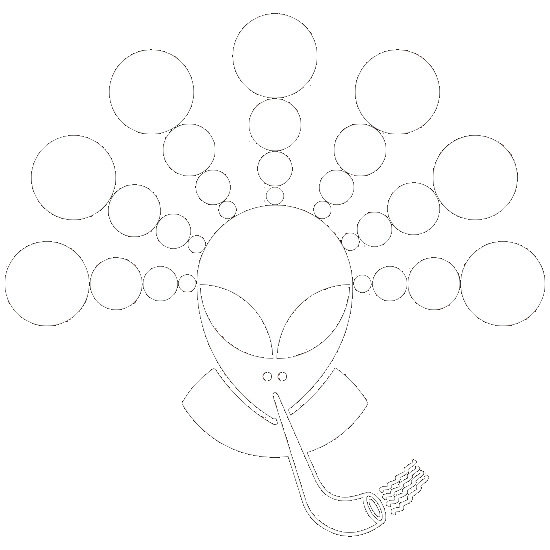
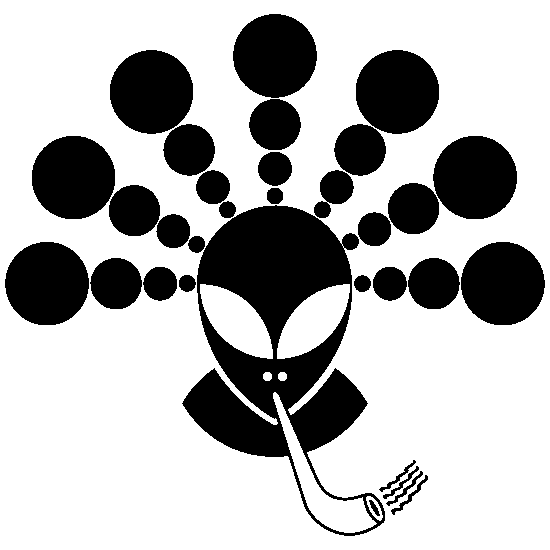
feat: seo and mobile

diff --git a/js/main.js b/js/main.js
@@ -1,0 +1,62 @@
+(function () {
+  var yearEl = document.getElementById("year");
+  if (yearEl) yearEl.textContent = String(new Date().getFullYear());
+
+  var toggle = document.querySelector(".nav-toggle");
+  var nav = document.querySelector(".nav");
+  var body = document.body;
+
+  var closeMenu = function () {
+    if (!nav || !toggle) return;
+    nav.classList.remove("is-open");
+    body.classList.remove("nav-open");
+    toggle.setAttribute("aria-expanded", "false");
+    toggle.setAttribute("aria-label", "Apri menu");
+  };
+
+  if (toggle && nav) {
+    toggle.addEventListener("click", function () {
+      var open = nav.classList.toggle("is-open");
+      body.classList.toggle("nav-open", open);
+      toggle.setAttribute("aria-expanded", open ? "true" : "false");
+      toggle.setAttribute("aria-label", open ? "Chiudi menu" : "Apri menu");
+    });
+
+    nav.querySelectorAll("a").forEach(function (link) {
+      link.addEventListener("click", closeMenu);
+    });
+
+    window.addEventListener("keydown", function (event) {
+      if (event.key === "Escape" && nav.classList.contains("is-open")) {
+        closeMenu();
+      }
+    });
+  }
+
+  document.querySelectorAll('a.brand[href="#top"], a.nav__logo[href="#top"]').forEach(function (link) {
+    link.addEventListener("click", function (e) {
+      e.preventDefault();
+      window.scrollTo({ top: 0, left: 0, behavior: "smooth" });
+      if (window.history && window.history.replaceState) {
+        var path = window.location.pathname + window.location.search;
+        window.history.replaceState(null, "", path);
+      }
+      closeMenu();
+    });
+  });
+
+  document.querySelectorAll(".faq__question").forEach(function (btn) {
+    btn.addEventListener("click", function () {
+      var item = btn.closest(".faq__item");
+      var panel = item && item.querySelector(".faq__answer");
+      if (!item || !panel) return;
+      var open = item.classList.toggle("faq__item--open");
+      btn.setAttribute("aria-expanded", open ? "true" : "false");
+      panel.hidden = !open;
+    });
+  });
+
+  document.querySelectorAll(".gallery__item img").forEach(function (img) {
+    img.setAttribute("draggable", "false");
+  });
+})();

diff --git a/index.html b/index.html
@@ -18,22 +18,25 @@
     <meta name="author" content="Sabia Antincendio di Sabia Hantony" />
     <meta name="robots" content="index, follow, max-image-preview:large, max-snippet:-1, max-video-preview:-1" />
     <title>Sabia Antincendio | Antincendio e estintori a Potenza e provincia (PZ)</title>
-    <link rel="sitemap" type="application/xml" title="Sitemap" href="sitemap.xml" />
+    <link rel="canonical" href="https://sabiaantincendio.it/" />
+    <link rel="sitemap" type="application/xml" title="Sitemap" href="https://sabiaantincendio.it/sitemap.xml" />
     <meta property="og:type" content="website" />
     <meta property="og:locale" content="it_IT" />
+    <meta property="og:url" content="https://sabiaantincendio.it/" />
     <meta property="og:title" content="Sabia Antincendio | Antincendio a Potenza e provincia (PZ)" />
     <meta
       property="og:description"
       content="Manutenzione, riparazione e ricarica estintori a Potenza e in tutta la provincia di Potenza. Servizi antincendio professionali."
     />
     <meta property="og:site_name" content="Sabia Antincendio" />
-    <meta property="og:image" content="assets/logo.png" />
+    <meta property="og:image" content="https://sabiaantincendio.it/assets/logo.png" />
     <meta name="twitter:card" content="summary_large_image" />
     <meta name="twitter:title" content="Sabia Antincendio | Antincendio a Potenza e provincia" />
     <meta
       name="twitter:description"
       content="Estintori e antincendio a Potenza (PZ) e provincia: manutenzione, riparazione e ricarica."
     />
+    <meta name="twitter:image" content="https://sabiaantincendio.it/assets/logo.png" />
     <meta name="theme-color" content="#ffffff" />
     <link rel="icon" type="image/png" href="assets/favicon.png" />
     <link rel="apple-touch-icon" href="assets/favicon.png" />
@@ -48,11 +51,25 @@
     <script type="application/ld+json">
       {
         "@context": "https://schema.org",
+        "@type": "WebSite",
+        "@id": "https://sabiaantincendio.it/#website",
+        "url": "https://sabiaantincendio.it/",
+        "name": "Sabia Antincendio",
+        "description": "Servizi antincendio a Potenza e provincia di Potenza: estintori, manutenzione, riparazione e ricarica.",
+        "inLanguage": "it-IT",
+        "publisher": { "@id": "https://sabiaantincendio.it/#business" }
+      }
+    </script>
+    <script type="application/ld+json">
+      {
+        "@context": "https://schema.org",
         "@type": "LocalBusiness",
+        "@id": "https://sabiaantincendio.it/#business",
         "name": "Sabia Antincendio di Sabia Hantony",
         "alternateName": "Sabia Antincendio",
+        "url": "https://sabiaantincendio.it/",
         "description": "Azienda antincendio a Potenza: manutenzione, riparazione e ricarica estintori in città e in tutta la provincia di Potenza (PZ). Prevenzione incendi per privati, condomini e imprese.",
-        "image": "assets/logo.png",
+        "image": "https://sabiaantincendio.it/assets/logo.png",
         "telephone": "[phone redacted]",
         "email": "[email redacted]",
         "address": {
@@ -82,6 +99,7 @@
         ],
         "vatID": "IT01910310760",
         "sameAs": [
+          "https://sabiaantincendio.it/",
           "https://www.facebook.com/p/Sabia-antincendio-100072300320098/"
         ],
         "hasOfferCatalog": {
@@ -126,7 +144,7 @@
         </a>
         <nav class="nav" aria-label="Principale">
           <a class="nav__logo" href="#top" aria-label="Sabia Antincendio — Torna in cima">
-            <img src="assets/logo-grey.png" alt="" width="200" height="109" decoding="async" />
+            <img src="assets/logo.png" alt="" width="200" height="109" decoding="async" />
           </a>
           <a class="nav__link" href="#servizi">Servizi</a>
           <a class="nav__link" href="#dati">Dati aziendali</a>
@@ -468,7 +486,7 @@
                 class="company__map"
                 loading="lazy"
                 referrerpolicy="no-referrer-when-downgrade"
-                src="https://maps.google.com/maps?q=40.7310107,15.8150849&amp;hl=it&amp;z=17&amp;output=embed"
+                src="https://maps.google.com/maps?q=40.7310107,15.8150849&amp;hl=it&amp;z=14&amp;output=embed"
                 allowfullscreen
               ></iframe>
             </div>
@@ -558,7 +576,7 @@
         <p style="margin-top: 0.65rem;">
           <a href="https://www.sabiasrl.com" target="_blank" rel="noopener noreferrer" style="display: inline-flex; align-items: center; gap: 0.45rem; color: inherit; text-decoration: none;">
             <span style="font-size: 0.82rem;">Powered by</span>
-            <img src="assets/powered-by.png" alt="Sabia Srl" style="height: 14px; width: auto;" loading="lazy" decoding="async" />
+            <img class="footer__powered-by-img" src="assets/powered-by.png" alt="Sabia Srl" width="55" height="14" loading="lazy" decoding="async" />
           </a>
         </p>
       </div>

diff --git a/css/style.css b/css/style.css
@@ -220,22 +220,24 @@ body.nav-open .nav-toggle span:nth-child(3) {
   }
 
   .nav {
+    display: flex;
     position: fixed;
     inset: 0;
     flex-direction: column;
     justify-content: center;
+    align-items: center;
     gap: 1.1rem;
     padding: 2rem 1.5rem;
     background: var(--color-bg-white);
-    transform: translateY(-102%);
+    visibility: hidden;
     opacity: 0;
     pointer-events: none;
-    transition: transform 0.35s var(--ease-out), opacity 0.35s;
-    z-index: 120;
+    transition: opacity 0.35s var(--ease-out), visibility 0.35s;
+    z-index: 125;
   }
 
   .nav.is-open {
-    transform: translateY(0);
+    visibility: visible;
     opacity: 1;
     pointer-events: auto;
   }
@@ -257,8 +259,13 @@ body.nav-open .nav-toggle span:nth-child(3) {
   }
 
   .site-header__inner {
-    z-index: 130;
     position: relative;
+  }
+
+  .site-header .brand,
+  .nav-toggle {
+    position: relative;
+    z-index: 130;
   }
 }
 
@@ -996,6 +1003,12 @@ body.nav-open .nav-toggle span:nth-child(3) {
 
 .footer__bottom p {
   margin: 0;
+}
+
+.footer__powered-by-img {
+  height: 14px;
+  width: auto;
+  display: block;
 }
 
 .footer__copy strong {